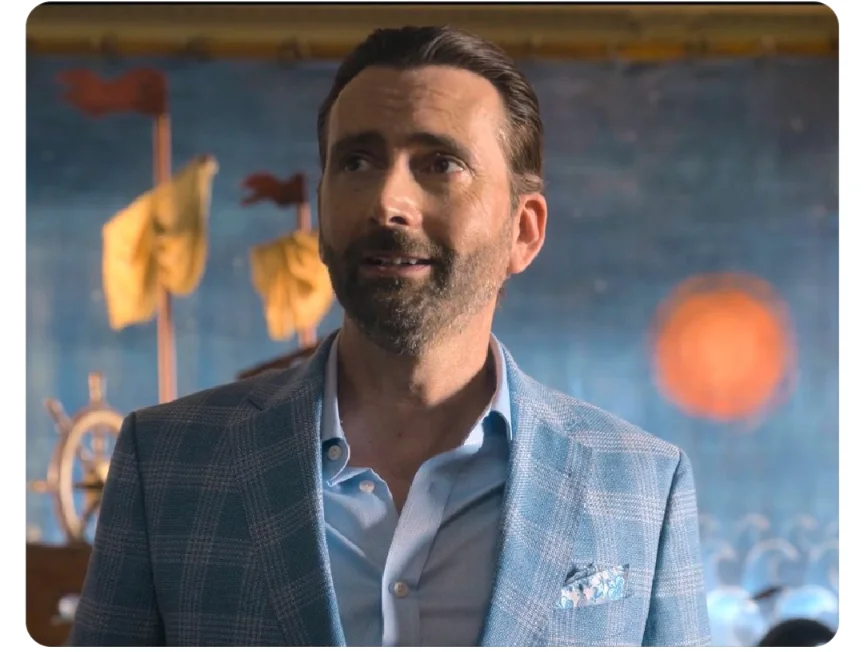
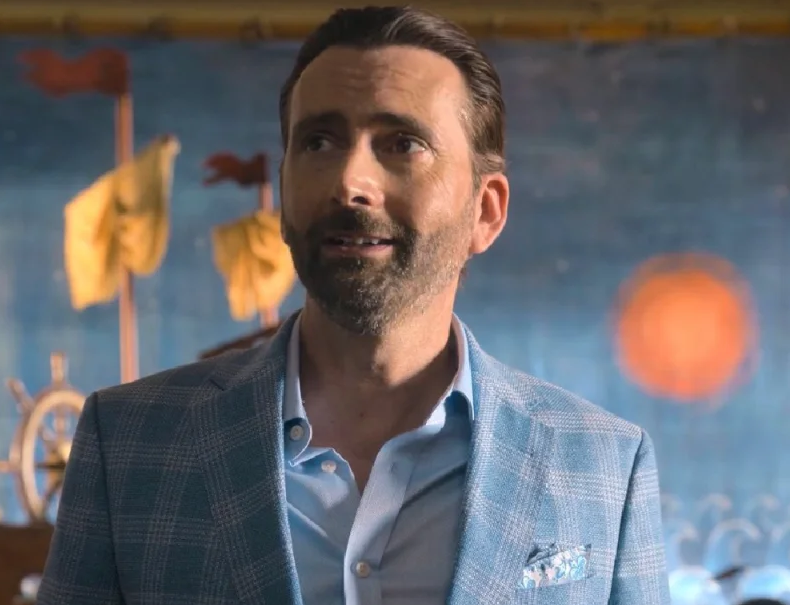
追記6/15

diff --git a/app/characters/page.tsx b/app/characters/page.tsx
@@ -1,0 +1,71 @@
+import React from 'react';
+import Link from 'next/link';
+import { customCharacterInfo } from '../data/details';
+import { customCharacterImages } from '../data/characters';
+
+export default function CharactersPage() {
+  // customCharacterInfo からデータを抽出し、配列に変換する
+  const characters = Object.keys(customCharacterInfo).map((workTitle) => {
+    const rawInfo = customCharacterInfo[workTitle] || '';
+    
+    // 「名前：\n説明」の形式から名前だけを切り出す
+    // コロン（：）または改行（\n）で分割して最初の部分を取得
+    let charName = "情報なし";
+    if (rawInfo.includes('：')) {
+      charName = rawInfo.split('：')[0];
+    } else if (rawInfo.includes('\n')) {
+      charName = rawInfo.split('\n')[0];
+    } else {
+      charName = rawInfo; // 区切り文字がない場合はそのまま
+    }
+
+    const charImage = customCharacterImages[workTitle] || null;
+    
+    return {
+      workTitle,
+      charName,
+      charImage,
+    };
+  });
+
+  return (
+    <main style={{ padding: '40px 20px', fontFamily: 'sans-serif', backgroundColor: '#141414', minHeight: '100vh', color: '#fff' }}>
+      <div style={{ maxWidth: '1200px', margin: '0 auto' }}>
+        
+        {/* ヘッダー部分 */}
+        <div style={{ display: 'flex', justifyContent: 'space-between', alignItems: 'center', marginBottom: '40px' }}>
+          <h1 style={{ fontSize: '32px', margin: 0 }}>キャラクターリスト</h1>
+          <Link href="/" style={{ color: '#4dabf7', textDecoration: 'none', padding: '8px 16px', backgroundColor: '#222', borderRadius: '8px' }}>
+            ← 作品リストに戻る
+          </Link>
+        </div>
+
+        {/* キャラクター一覧のグリッド */}
+        <div style={{ display: 'grid', gridTemplateColumns: 'repeat(auto-fill, minmax(200px, 1fr))', gap: '25px' }}>
+          {characters.map((char, index) => (
+            <div key={index} style={{ backgroundColor: '#222', borderRadius: '12px', padding: '20px', textAlign: 'center', transition: 'transform 0.2s' }}>
+              
+              {/* アイコン画像 */}
+              <div style={{ 
+                width: '120px', height: '120px', margin: '0 auto 15px auto', borderRadius: '50%', 
+                overflow: 'hidden', backgroundColor: '#333', display: 'flex', alignItems: 'center', justifyContent: 'center',
+                boxShadow: '0 4px 10px rgba(0,0,0,0.5)'
+              }}>
+                {char.charImage ? (
+                  <img src={char.charImage} alt={char.charName} style={{ width: '100%', height: '100%', objectFit: 'cover' }} />
+                ) : (
+                  <span style={{ fontSize: '40px' }}>🎭</span>
+                )}
+              </div>
+
+              {/* 名前と作品名 */}
+              <h2 style={{ fontSize: '18px', margin: '0 0 8px 0', color: '#4dabf7' }}>{char.charName}</h2>
+              <p style={{ fontSize: '13px', color: '#888', margin: 0 }}>{char.workTitle}</p>
+            </div>
+          ))}
+        </div>
+
+      </div>
+    </main>
+  );
+}

diff --git a/app/WorkList.tsx b/app/WorkList.tsx
@@ -1,6 +1,7 @@
 'use client';
 
 import { useState, useMemo } from 'react';
+import Link from 'next/link';
 import { customOverviews } from './data/overviews';
 import { customCharacterImages } from './data/characters';
 import { customCharacterInfo } from './data/details';
@@ -74,7 +75,11 @@ export default function WorkList({ works, davidId }: { works: any[], davidId: nu
     <main style={{ padding: '40px 20px', fontFamily: 'sans-serif', backgroundColor: '#141414', minHeight: '100vh', color: '#fff' }}>
       <div style={{ maxWidth: '1200px', margin: '0 auto' }}>
         <h1 style={{ fontSize: '32px', marginBottom: '10px' }}>David Tennant - 作品＆配信情報</h1>
-
+           <div style={{ marginBottom: '20px' }}>
+              <Link href="/characters" style={{ display: 'inline-block', padding: '10px 20px', backgroundColor: '#4dabf7', color: '#fff', borderRadius: '8px', textDecoration: 'none', fontWeight: 'bold' }}>
+                 👥 キャラクターのリストを見る
+                 </Link>
+             </div>
     <p style={{ fontSize: '14px', color: '#888', marginBottom: '20px' }}>
   ※テスト運用中です 何かあれば@QnoPodまで
     </p>
@@ -227,18 +232,18 @@ export default function WorkList({ works, davidId }: { works: any[], davidId: nu
                 {customCharacterImages[selectedWork.title || selectedWork.name] ? (
                   <img src={customCharacterImages[selectedWork.title || selectedWork.name]} alt="Character" style={{ width: '100px', height: '100px', borderRadius: '8px', objectFit: 'cover' }} />
                 ) : (
-                  <div style={{ width: '100px', height: '100px', backgroundColor: '#333', display: 'flex', alignItems: 'center', justifyContent: 'center', borderRadius: '8px' }}>🎭</div>
+                <div style={{ width: '100px', height: '100px', backgroundColor: '#333', display: 'flex', alignItems: 'center', justifyContent: 'center', borderRadius: '8px' }}>🎭</div>
                 )}
                 <div>
-                  <div style={{ fontSize: '18px', fontWeight: 'bold', color: '#4dabf7', marginBottom: '8px' }}>
-                   {(selectedWork.title || selectedWork.name) === '木曜殺人クラブ' 
-                     ? 'Ian Vensam' 
+                    <div style={{ fontSize: '18px', fontWeight: 'bold', color: '#4dabf7', marginBottom: '8px' }}>
+                     {(selectedWork.title || selectedWork.name) === '木曜殺人クラブ' 
+                     ? 'Ian Ventham' 
                      : (selectedWork.character || '情報なし')}
-                  </div>
-                  <p style={{ fontSize: '14px', lineHeight: '1.6', color: '#ccc', margin: 0 }}>
-                    {customCharacterInfo[selectedWork.title || selectedWork.name] || '詳細なキャラクター情報はありません。'}
-                  </p>
-                </div>
+                    </div>
+                     <p style={{ fontSize: '14px', lineHeight: '1.6', color: '#ccc', margin: 0 }}>
+                        {customCharacterInfo[selectedWork.title || selectedWork.name] || '詳細なキャラクター情報はありません。'}
+                     </p>
+                 </div>
               </div>
 
               {/* 3. 最後に配信状況を表示 */}

diff --git a/app/data/characters.ts b/app/data/characters.ts
@@ -1,8 +1,9 @@
 export const customCharacterImages: Record<string, string> = {
   "木曜殺人クラブ": "/characters/Ian Ventham.png",
-  "ブロードチャーチ〜殺意の町〜": "/characters/alec.jpg",
+  "ブロードチャーチ〜殺意の町〜": "/characters/AlecHardy.png",
   "Staged ステージド": "/characters/michael.jpg",
   "80日間世界一周": "/characters/fogg.jpg",
   "Des": "/characters/Des.jpg",
   "Rivals": "/characters/Tony Baddingham.webp",
+  "Blackpool": "/characters/Peter Carlisle.png",
 };

diff --git a/app/data/details.ts b/app/data/details.ts
@@ -1,6 +1,6 @@
 // キャラクター詳細説明辞書
 export const customCharacterInfo: Record<string, string> = {
-  "木曜殺人クラブ": "イアン・ヴェンサム\n非常に野心的で、利益のためなら手段を選ばない強欲な実業家。ホームに隣接する歴史ある墓地を取り壊し、高級マンションを建てようと画策して入居者たちの怒りを買う。派手なTシャツにオールバックの髪型という、いかにも「成金」らしい不遜な態度が特徴。",
+  "木曜殺人クラブ": "イアン・ヴェンサム\n非常に野心的で、利益のためなら手段を選ばない強欲な実業家。ホームに隣接する歴史ある墓地を取り壊し、高級マンションを建てようと画策して入居者たちの怒りを買う。",
   "Des": "デニス・ニルセン：\n孤独な元公務員。死体を自宅に隠し続け、殺害した人々に執着する異常性を持ちながら、逮捕後は驚くほど冷静に犯行を語る。",
   "ブロードチャーチ〜殺意の町〜": "アレック・ハーディ：\n過去の事件の責任から逃れられず、心臓に持病を抱えながらドーセットへ来た警部補。不器用で、感情表現が苦手だが、正義感は誰よりも強い。",
   "Rivals": "トニー・バディンガム：\n冷酷で計算高いテレビ業界の大物。手段を選ばない男。宿敵であるルパート・キャンベル＝ブラックに対して、激しい競争心と憎しみを抱いている。完璧に整えられた外見と裏腹に、内側にはドロドロとした独占欲と野心を秘めている。",